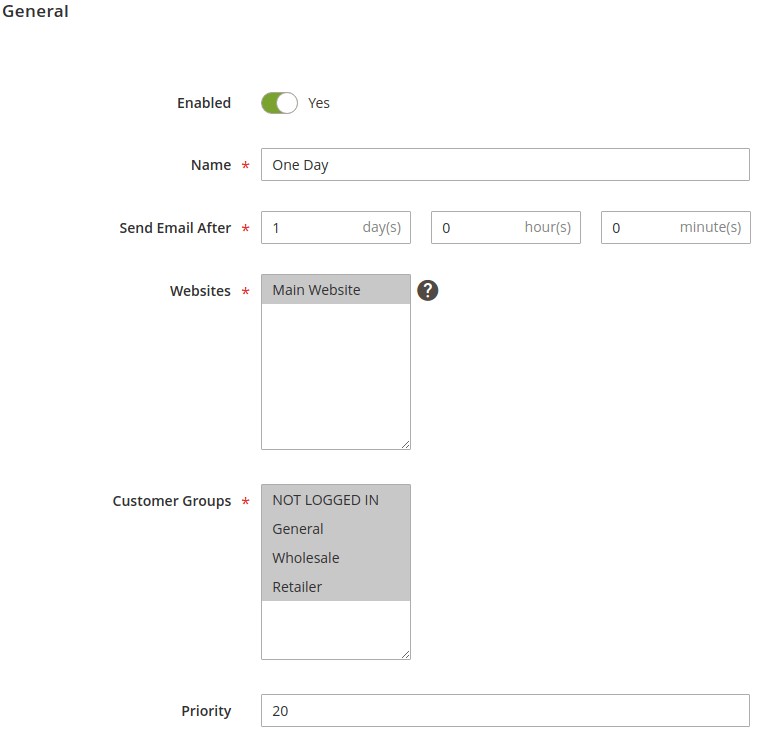
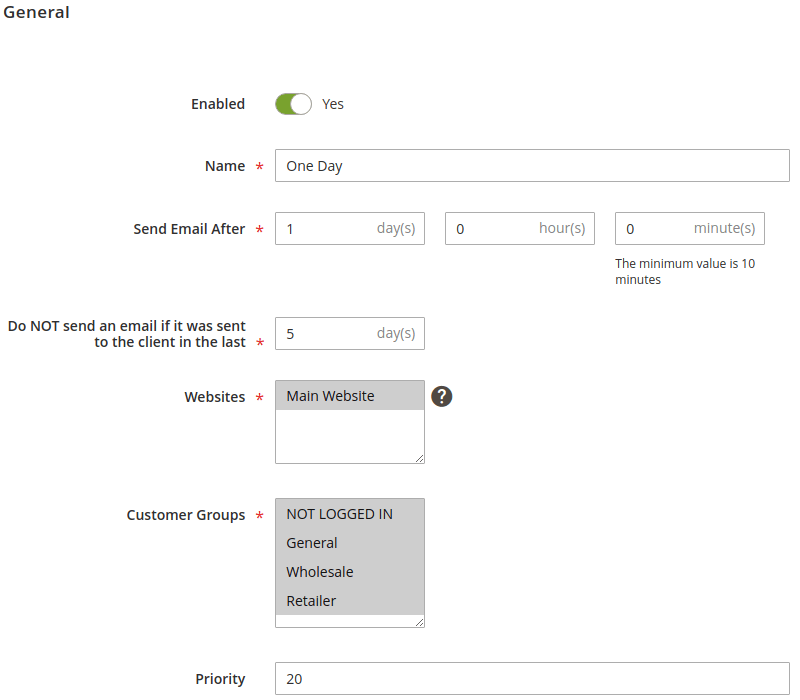
Abandoned 1.0.6 release

diff --git a/m2/extensions/abandoned-cart/backend/abandoned-cart-rules.md b/m2/extensions/abandoned-cart/backend/abandoned-cart-rules.md
@@ -30,6 +30,7 @@ Field            | Description
 Enabled          | Enable/Disable the rule
 Name             | Rule Name
 Send Email After | Delay before abandoned email will be sent **(the minimum value is 10 minutes)**
+Do NOT send an email if it was sent to the client in the last ? days | Here you can specify a number of days to wait until the next email will be sent to customer
 Websites         | Select websites where rule can be applied
 Customer Groups  | Select customer groups for which rule can be applied
 Priority         | Rule sort order

diff --git a/m2/extensions/abandoned-cart/changelog.md b/m2/extensions/abandoned-cart/changelog.md
@@ -8,6 +8,12 @@ category: Abandoned Cart
 
 # Changelog
 
+### Version 1.0.6
+
+> Apr 8, 2021
+
+ -  Added rule config to limit email frequency per customer
+
 ### Version 1.0.5
 
 > Feb 22, 2021
